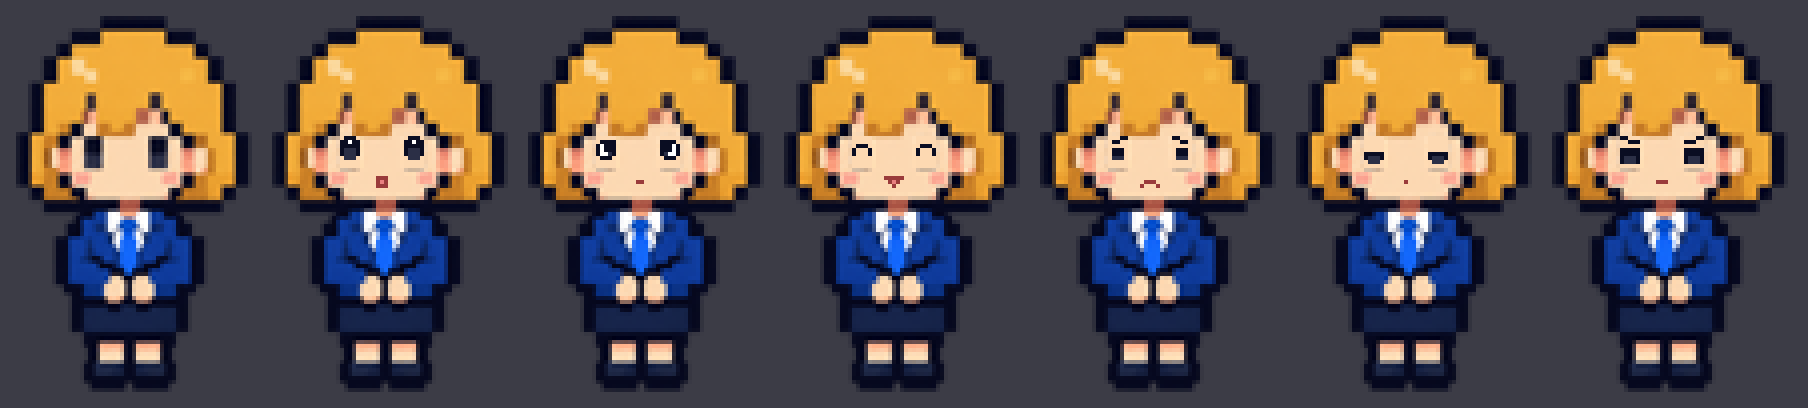
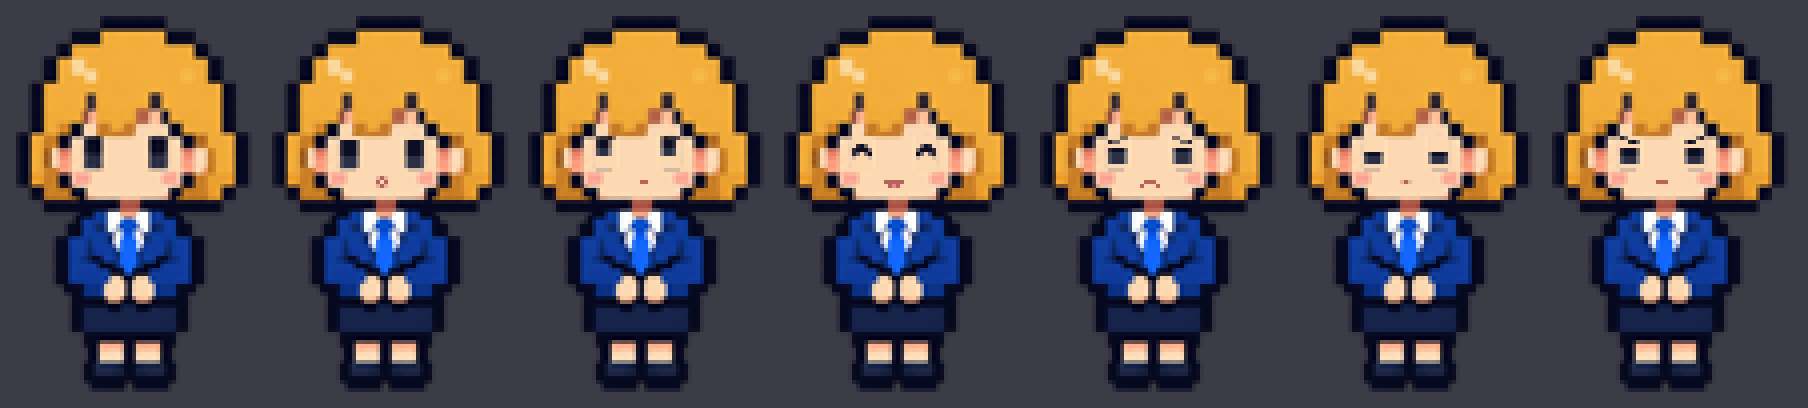
바탕화면 비서 표정 다시 그림(A-1 또렷하게): 평소 눈의 실제 색·두께로 눈을 그려 도트 그림과 맞추고 입을 진하게

diff --git a/docs/design/desktop-secretary/face-sprites.py b/docs/design/desktop-secretary/face-sprites.py
@@ -5,7 +5,7 @@
       docs/design/desktop-secretary/expression-preview.png (표정별 4배 미리보기)
 
 방향은 expression-concept.png(이디자 시안, 대표 확인). 기준 그림의 두 눈 칸(5×8)을 피부색으로 지운 뒤
-눈·눈썹을 다시 그리고, 입 칸(5×3)에 입을 그린다. 그 밖의 픽셀은 기준 그림과 같아야 한다.
+눈·눈썹을 다시 그리고, 입 칸(5×3)에 입을 그린다. (v2: 아래 COLORS 위 설명 참고) 그 밖의 픽셀은 기준 그림과 같아야 한다.
 
 실행: python3 docs/design/desktop-secretary/face-sprites.py         (만들고 검사)
       python3 docs/design/desktop-secretary/face-sprites.py --check (검사만)
@@ -19,64 +19,74 @@ ROOT = Path(__file__).resolve().parents[3]
 SPRITES = ROOT / 'app/src/renderer/deskPet/sprites'
 PREVIEW = ROOT / 'docs/design/desktop-secretary/expression-preview.png'
 
-# 기준 그림 기준 좌표 (끝 포함). 눈은 왼쪽·오른쪽 각 5×8, 입은 얼굴 가운데 5×3
+# 기준 그림 기준 좌표 (끝 포함). 눈은 왼쪽·오른쪽 각 5×9 (38줄은 밑 그림자), 입은 얼굴 가운데 5×3
 EYE_L, EYE_R, EYE_TOP = 17, 33, 30
 MOUTH_X, MOUTH_Y = 25, 40
 FACE = (17, 30, 37, 42)  # 바뀌어도 되는 영역 — 이 밖은 기준 그림과 픽셀까지 같아야 한다
 
+# v2(2026-11-01, 대표 선택 A-1 '또렷하게'): v1의 1칸 선 눈·순백 빛점이 도트 그림과 어울리지 않아,
+# 평소 눈의 실제 색(기준 그림에서 뽑음)과 2칸 이상 두께만 쓴다. 시안 비교는 face-sprites-v3.py
+_base = Image.open(SPRITES / 'body-idle.png').convert('RGBA').load()
 COLORS = {
-    '.': (0xfd, 0xd9, 0xb2, 255),  # 피부
-    'k': (0x0a, 0x0d, 0x22, 255),  # 눈·눈썹 (기준 눈의 어두운 부분)
-    'n': (0x2b, 0x2f, 0x46, 255),  # 눈 아래쪽 남색
-    'w': (0xff, 0xff, 0xff, 255),  # 흰자·빛
-    'r': (0x9a, 0x3b, 0x3b, 255),  # 입 선
-    'p': (0xe8, 0x80, 0x80, 255),  # 입 안
+    '.': _base[24, 34],                                          # 피부 (두 눈 사이)
+    'A': _base[17, 32], 'K': _base[19, 32], 'G': _base[21, 32],  # 위 어두운 칸: 바깥·가운데·안쪽 회색 테두리
+    'B': _base[17, 35], 'N': _base[19, 35], 'H': _base[21, 35],  # 아래 남색 칸
+    'S': _base[18, 38],                                          # 밑 그림자
+    'm': (0xec, 0xb4, 0xa0, 254),  # 입 가장자리 옅은 색
+    'D': (0xb8, 0x62, 0x5c, 254),  # 입 선
+    'p': (0xe8, 0x8a, 0x86, 254),  # 입 안
 }
+LID = [_base[17 + i, 30] for i in range(5)]  # 평소 위 눈꺼풀 줄 (칸마다 색이 다르다) — 'L'
 
-# 왼쪽 눈 8줄 (오른쪽 눈은 좌우를 뒤집어 그린다 — 눈썹 기울기가 대칭이 되게). '_'는 기준 그림 그대로
-CLOSED = ['.....', '.....', '.....', '.....', '.....', 'kkkkk', 'kkkkk', '.....']
+# 왼쪽 눈 9줄, 0번 칸이 바깥쪽. 오른쪽 눈은 'eyeR'이 없으면 좌우를 뒤집어 그린다 (있으면 그것도 0번이 바깥쪽)
+CLOSED = ['.....', '.....', '.....', '.....', '.....', 'AKKKG', 'AKKKG', '.....', 'SSSS.']
 FACES = {
-    'surprised': {  # 놀람: 동그랗게 뜬 눈 + 'o' 입
-        'eye': ['.kkk.', 'kkwkk', 'kkkkk', 'knnnk', 'knnnk', '.nnn.', '.....', '.....'],
+    'surprised': {  # 놀람: 위 눈꺼풀이 올라가 커진 눈 + 'o' 입
+        'eye': ['.....', 'AKKKG', 'AKKKG', 'AKKKG', 'AKKKG', 'BNNNH', 'BNNNH', 'BNNNH', 'SSSS.'],
         'blink': None,
-        'mouth': ['.rrr.', '.rpr.', '.rrr.'],
+        'mouth': ['.mDm.', '.D.D.', '.mDm.'],
     },
-    'thinking': {  # 생각 중: 눈동자가 위 바깥쪽 + 한쪽으로 다문 입
-        'eye': ['.....', '.kkkk', 'kwkkk', 'kwkkk', 'kwwnk', '.kkk.', '.....', '.....'],
+    'thinking': {  # 생각 중: 두 눈이 위·같은 쪽을 본다 + 한쪽으로 다문 입
+        'eye': ['LLLLL', 'AKKG.', 'AKKG.', 'BNNH.', 'BNNH.', '.....', '.....', '.....', 'SSSS.'],
+        'eyeR': ['LLLLL', '.AKKG', '.AKKG', '.BNNH', '.BNNH', '.....', '.....', '.....', 'SSSS.'],
         'blink': CLOSED,
-        'mouth': ['.....', '..rr.', '.....'],
+        'mouth': ['.....', '...DD', '.....'],
     },
-    'happy': {  # 기쁨: ∩ 눈 + 벌린 웃는 입
-        'eye': ['.....', '.....', '.kkk.', 'k...k', 'k...k', '.....', '.....', '.....'],
+    'happy': {  # 기쁨: 두꺼운 ∩ 눈 + 벌린 웃는 입
+        'eye': ['.....', '.....', '.AKG.', 'AKKKG', 'AG.GK', 'S...S', '.....', '.....', '.....'],
         'blink': None,
-        'mouth': ['rrrrr', '.rpr.', '..r..'],
+        'mouth': ['.....', 'DDDDD', '.DpD.'],
     },
     'worried': {  # 걱정: 안쪽이 올라간 눈썹 + 작은 눈 + 처진 입
-        'eye': ['...kk', '.kk..', '.....', '.kkk.', '.kkk.', '.nnn.', '.....', '.....'],
-        'blink': ['...kk', '.kk..', '.....', '.....', '.....', 'kkkkk', '.....', '.....'],
-        'mouth': ['.....', '.rrr.', 'r...r'],
+        'eye': ['...GG', 'AGG..', '.....', 'AKKKG', 'BNNNH', 'BNNNH', 'BNNNH', '.....', 'SSSS.'],
+        'blink': ['...GG', 'AGG..', '.....', '.....', '.....', 'AKKKG', 'AKKKG', '.....', 'SSSS.'],
+        'mouth': ['.....', '.DDD.', 'D...D'],
     },
     'sleepy': {  # 졸림: 반쯤 감은 눈 + 작게 벌린 입
-        'eye': ['.....', '.....', '.....', '.....', 'kkkkk', 'knnnk', '.nnn.', '.....'],
+        'eye': ['.....', '.....', '.....', '.....', 'AKKKG', 'BNNNH', 'BNNNH', '.....', 'SSSS.'],
         'blink': CLOSED,
-        'mouth': ['.....', '..r..', '.....'],
+        'mouth': ['.....', '.mDm.', '.....'],
     },
     'focused': {  # 집중: 안쪽이 내려간 눈썹 + 또렷한 눈 + 다문 입
-        'eye': ['kk...', '..kkk', '.....', 'kkkkk', 'kkkkk', 'knnnk', 'knnnk', '.....'],
-        'blink': ['kk...', '..kkk', '.....', '.....', '.....', 'kkkkk', 'kkkkk', '.....'],
-        'mouth': ['.....', '.rrr.', '.....'],
+        'eye': ['AG...', '..AKG', '.....', 'AKKKG', 'AKKKG', 'BNNNH', 'BNNNH', '.....', 'SSSS.'],
+        'blink': ['AG...', '..AKG', '.....', '.....', '.....', 'AKKKG', 'AKKKG', '.....', 'SSSS.'],
+        'mouth': ['.....', '.DDD.', '.....'],
     },
 }
 
 
-def paint(base, eye, mouth):
+def color(ch, i):
+    return LID[i] if ch == 'L' else COLORS[ch]
+
+
+def paint(base, eye, mouth, eye_r=None):
     im = base.copy()
     p = im.load()
-    for y, row in enumerate(eye):
-        for i, ch in enumerate(row):
-            if ch != '_':
-                p[EYE_L + i, EYE_TOP + y] = COLORS[ch]
-                p[EYE_R + 4 - i, EYE_TOP + y] = COLORS[ch]
+    eye_r = eye_r or eye
+    for y in range(len(eye)):
+        for i in range(5):
+            p[EYE_L + i, EYE_TOP + y] = color(eye[y][i], i)
+            p[EYE_R + 4 - i, EYE_TOP + y] = color(eye_r[y][i], i)
     for y, row in enumerate(mouth):
         for x, ch in enumerate(row):
             if ch != '.':
@@ -86,9 +96,9 @@ def paint(base, eye, mouth):
 
 def outputs():
     for name, f in FACES.items():
-        yield f'face-{name}', f['eye'], f['mouth']
+        yield f'face-{name}', f['eye'], f['mouth'], f.get('eyeR')
         if f['blink']:
-            yield f'face-{name}-blink', f['blink'], f['mouth']
+            yield f'face-{name}-blink', f['blink'], f['mouth'], None
 
 
 def check(base):
@@ -96,7 +106,7 @@ def check(base):
     bp = base.load()
     x0, y0, x1, y1 = FACE
     bad = []
-    for name, _, _ in outputs():
+    for name, *_ in outputs():
         im = Image.open(SPRITES / f'{name}.png').convert('RGBA')
         if im.size != base.size:
             bad.append(f'{name}: 크기 {im.size}')
@@ -113,12 +123,12 @@ def main():
     base = Image.open(SPRITES / 'body-idle.png').convert('RGBA')
     if '--check' not in sys.argv:
         made = []
-        for name, eye, mouth in outputs():
-            im = paint(base, eye, mouth)
+        for name, eye, mouth, eye_r in outputs():
+            im = paint(base, eye, mouth, eye_r)
             im.save(SPRITES / f'{name}.png')
             made.append(im)
         # 미리보기: 기준 + 표정 6종, 4배 확대, 회색 바탕
-        faces = [base] + [paint(base, f['eye'], f['mouth']) for f in FACES.values()]
+        faces = [base] + [paint(base, f['eye'], f['mouth'], f.get('eyeR')) for f in FACES.values()]
         s, gap = 4, 16
         sheet = Image.new('RGBA', (len(faces) * (base.width * s + gap) + gap, base.height * s + gap * 2), (60, 60, 70, 255))
         for i, im in enumerate(faces):

diff --git a/docs/design/desktop-secretary/face-sprites-v3.py b/docs/design/desktop-secretary/face-sprites-v3.py
@@ -1,0 +1,135 @@
+"""바탕화면 비서 표정 v3 시안: v2 A안을 기준으로 세 갈래 (앱 그림은 바꾸지 않는다)
+
+A    v2 A안 그대로
+A-1  또렷하게: 입 색을 진하게·크게, ∩ 눈 두껍게, 생각은 두 눈이 같은 쪽을 본다
+A-2  반짝임: 눈에 옅은 빛 한 점(순백 아님), 기쁨은 눈 밑 볼 홍조
+A-3  크게: 눈썹·입을 과장하고 생각·졸음은 두 눈을 다르게
+
+결과  docs/design/desktop-secretary/review/expressions-v3-sheet.png (4배 + 1배, 얼굴 밖 동일성 검사)
+실행  python3 docs/design/desktop-secretary/face-sprites-v3.py
+"""
+
+from pathlib import Path
+from PIL import Image, ImageDraw, ImageFont
+
+ROOT = Path(__file__).resolve().parents[3]
+SPRITES = ROOT / 'app/src/renderer/deskPet/sprites'
+OUT = ROOT / 'docs/design/desktop-secretary/review/expressions-v3-sheet.png'
+
+EYE_L, EYE_R, TOP = 17, 33, 30  # 눈 칸 5×9 (30~38줄, 38줄은 밑 그림자). 0번 칸이 바깥쪽
+MOUTH_X, MOUTH_Y = 25, 40       # 입 칸 5×3
+FACE = (17, 30, 37, 42)
+
+base = Image.open(SPRITES / 'body-idle.png').convert('RGBA')
+bp = base.load()
+C = {
+    '.': bp[24, 34],
+    'A': bp[17, 32], 'K': bp[19, 32], 'G': bp[21, 32],
+    'B': bp[17, 35], 'N': bp[19, 35], 'H': bp[21, 35],
+    'S': bp[18, 38],
+    'W': (0x8e, 0x93, 0xb0, 254),  # 눈 빛 (옅은 남회색)
+    'P': bp[16, 40],               # 볼 홍조 (기준 볼 색)
+    'M': (0xd9, 0x8c, 0x82, 254),  # 옅은 입
+    'm': (0xec, 0xb4, 0xa0, 254),
+    'D': (0xb8, 0x62, 0x5c, 254),  # 진한 입
+    'p': (0xe8, 0x8a, 0x86, 254),  # 입 안
+}
+LID = [bp[17 + i, 30] for i in range(5)]
+
+# (이름, 왼쪽 눈, 오른쪽 눈(None이면 왼쪽을 좌우로 뒤집음 — 오른쪽 눈도 0번이 바깥쪽), 입)
+SETS = {
+    'A': [
+        ('놀람', ['.....', 'AKKKG', 'AKKKG', 'AKKKG', 'AKKKG', 'BNNNH', 'BNNNH', 'BNNNH', 'SSSS.'], None, ['..m..', '.mMm.', '..m..']),
+        ('생각', ['LLLLL', 'AKKG.', 'AKKG.', 'BNNH.', 'BNNH.', '.....', '.....', '.....', 'SSSS.'], None, ['.....', '...Mm', '.....']),
+        ('기쁨', ['.....', '.....', '.AKG.', 'AKGAK', 'AG.GK', 'S...S', '.....', '.....', '.....'], None, ['.....', 'mMMMm', '.mMm.']),
+        ('걱정', ['...GG', 'AGG..', '.....', 'AKKKG', 'BNNNH', 'BNNNH', 'BNNNH', '.....', 'SSSS.'], None, ['.....', '.mMm.', 'm...m']),
+        ('집중', ['AG...', '..AKG', '.....', 'AKKKG', 'AKKKG', 'BNNNH', 'BNNNH', '.....', 'SSSS.'], None, ['.....', '.mMm.', '.....']),
+        ('졸음', ['.....', '.....', '.....', '.....', 'AKKKG', 'BNNNH', 'BNNNH', '.....', 'SSSS.'], None, ['.....', '..M..', '.....']),
+    ],
+    'A-1': [
+        ('놀람', ['.....', 'AKKKG', 'AKKKG', 'AKKKG', 'AKKKG', 'BNNNH', 'BNNNH', 'BNNNH', 'SSSS.'], None, ['.mDm.', '.D.D.', '.mDm.']),
+        ('생각', ['LLLLL', 'AKKG.', 'AKKG.', 'BNNH.', 'BNNH.', '.....', '.....', '.....', 'SSSS.'],
+                 ['LLLLL', '.AKKG', '.AKKG', '.BNNH', '.BNNH', '.....', '.....', '.....', 'SSSS.'], ['.....', '...DD', '.....']),
+        ('기쁨', ['.....', '.....', '.AKG.', 'AKKKG', 'AG.GK', 'S...S', '.....', '.....', '.....'], None, ['.....', 'DDDDD', '.DpD.']),
+        ('걱정', ['...GG', 'AGG..', '.....', 'AKKKG', 'BNNNH', 'BNNNH', 'BNNNH', '.....', 'SSSS.'], None, ['.....', '.DDD.', 'D...D']),
+        ('집중', ['AG...', '..AKG', '.....', 'AKKKG', 'AKKKG', 'BNNNH', 'BNNNH', '.....', 'SSSS.'], None, ['.....', '.DDD.', '.....']),
+        ('졸음', ['.....', '.....', '.....', '.....', 'AKKKG', 'BNNNH', 'BNNNH', '.....', 'SSSS.'], None, ['.....', '.mDm.', '.....']),
+    ],
+    'A-2': [
+        ('놀람', ['.....', 'AKWKG', 'AKKKG', 'AKKKG', 'AKKKG', 'BNNNH', 'BNNNH', 'BNNNH', 'SSSS.'], None, ['..m..', '.mMm.', '..m..']),
+        ('생각', ['LLLLL', 'AWKG.', 'AKKG.', 'BNNH.', 'BNNH.', '.....', '.....', '.....', 'SSSS.'], None, ['.....', '...Mm', '.....']),
+        ('기쁨', ['.....', '.....', '.AKG.', 'AKGAK', 'AG.GK', '.....', 'PP...', '.....', '.....'], None, ['.....', 'mMMMm', '.mMm.']),
+        ('걱정', ['...GG', 'AGG..', '.....', 'AKWKG', 'BNNNH', 'BNNNH', 'BNNNH', '.....', 'SSSS.'], None, ['.....', '.mMm.', 'm...m']),
+        ('집중', ['AG...', '..AKG', '.....', 'AKKWG', 'AKKKG', 'BNNNH', 'BNNNH', '.....', 'SSSS.'], None, ['.....', '.mMm.', '.....']),
+        ('졸음', ['.....', '.....', '.....', '.....', 'AKKKG', 'BNNNH', 'BNNNH', '.....', 'SSSS.'], None, ['.....', '..M..', '.....']),
+    ],
+    'A-3': [
+        ('놀람', ['.GGG.', '.....', 'AKKKG', 'AKWKG', 'AKKKG', 'BNNNH', 'BNNNH', 'BNNNH', 'SSSS.'], None, ['..D..', '.DpD.', '..D..']),
+        ('생각', ['GG...', '..GG.', 'AKKG.', 'AKKG.', 'BNNH.', 'BNNH.', '.....', '.....', 'SSSS.'],
+                 ['.....', '.....', '.....', '.....', 'LLLLL', '.AKKG', '.BNNH', '.....', 'SSSS.'], ['.....', '...DD', '.....']),
+        ('기쁨', ['.....', '.....', '.AKG.', 'AKKKG', 'AG.GK', '.....', 'PP...', '.....', '.....'], None, ['mDDDm', '.DpD.', '..D..']),
+        ('걱정', ['...GG', '.GG..', 'G....', 'AKWKG', 'BNNNH', 'BNNNH', '.BNH.', '.....', 'SSSS.'], None, ['.....', '.D.D.', 'D.D.D']),
+        ('집중', ['GG...', '..GGG', '.....', 'LLLLL', 'AKKKG', 'BNNNH', 'BNNNH', '.....', 'SSSS.'], None, ['.....', 'DDDD.', '.....']),
+        ('졸음', ['.....', '.....', '.....', '.....', '.....', 'AKKKG', 'BNNNH', '.....', 'SSSS.'],
+                 ['.....', '.....', '.....', '.....', 'AKKKG', 'BNNNH', 'BNNNH', '.....', 'SSSS.'], ['.....', '.mDm.', '..m..']),
+    ],
+}
+DESC = {'A': '이전 A안', 'A-1': '또렷하게 (진한 입·굵은 선)', 'A-2': '반짝임 (눈 빛·볼 홍조)', 'A-3': '크게 (눈썹·입 과장, 짝눈)'}
+
+
+def color(ch, i):
+    return LID[i] if ch == 'L' else C[ch]
+
+
+def paint(left, right, mouth):
+    im = base.copy()
+    p = im.load()
+    right = right or left
+    for y in range(9):
+        for i in range(5):
+            p[EYE_L + i, TOP + y] = color(left[y][i], i)
+            p[EYE_R + 4 - i, TOP + y] = color(right[y][i], i)
+    for y, row in enumerate(mouth):
+        for x, ch in enumerate(row):
+            if ch != '.':
+                p[MOUTH_X + x, MOUTH_Y + y] = C[ch]
+    return im
+
+
+def outside_same(im):
+    p = im.load()
+    x0, y0, x1, y1 = FACE
+    return all(p[x, y] == bp[x, y] for y in range(base.height) for x in range(base.width) if not (x0 <= x <= x1 and y0 <= y <= y1))
+
+
+def main():
+    font = lambda n: ImageFont.truetype('/System/Library/Fonts/AppleSDGothicNeo.ttc', n)
+    f, fb = font(20), font(24)
+    S = 5
+    cw, ch = 29 * S, 22 * S  # 얼굴 부분만 5배 (13~41, 24~45)
+    pad, head, lab, small = 18, 200, 34, base.height + 10
+    cols = 7
+    sheet = Image.new('RGB', (head + cols * (cw + pad) + pad, pad + len(SETS) * (ch + lab + small + pad)), (236, 238, 242))
+    dr = ImageDraw.Draw(sheet)
+    bad = []
+    for r, (key, faces) in enumerate(SETS.items()):
+        y = pad + r * (ch + lab + small + pad)
+        dr.text((pad, y + 30), key, font=fb, fill=(30, 30, 40))
+        dr.multiline_text((pad, y + 70), DESC[key].replace(' (', '\n('), font=font(16), fill=(90, 90, 100))
+        items = [('평소', base)] + [(n, paint(l, rr, m)) for n, l, rr, m in faces]
+        for c, (name, im) in enumerate(items):
+            if not outside_same(im):
+                bad.append(f'{key} {name}')
+            x = head + c * (cw + pad)
+            dr.rounded_rectangle([x - 4, y - 4, x + cw + 4, y + ch + lab + small], 10, fill=(255, 255, 255))
+            big = im.crop((13, 24, 42, 46)).resize((cw, ch), Image.NEAREST)
+            sheet.paste(big, (x, y), big)
+            dr.text((x + cw / 2, y + ch + 18), name, font=f, fill=(30, 30, 40), anchor='mm')
+            sheet.paste(im, (x + cw // 2 - base.width // 2, y + ch + lab), im)  # 1배 실제 크기
+    sheet.save(OUT)
+    print('저장', OUT.relative_to(ROOT))
+    print('얼굴 밖 검사:', '통과' if not bad else f'실패 {bad}')
+
+
+if __name__ == '__main__':
+    main()

diff --git a/CHANGELOG.ja.md b/CHANGELOG.ja.md
@@ -18,6 +18,7 @@
 - 別のPCのスタッフに送る添付ファイルを整理しました。1ファイル20MB、1件あたり5個まで添付でき、使われずに残った添付は2日後に自動で削除します。
 - 別のPCのスタッフに任せた仕事も「この仕事を止める」で取り消せます。
 - デスクトップ秘書をドラッグして動かしても、開いている小さなウィンドウが閉じずに一緒についてきます。
+- デスクトップ秘書の表情(驚き・考え中・喜び・心配・集中・眠気)を描き直しました。目がいつもの絵と同じドット調になじみ、口もはっきりしました。
 
 ### バグ修正
 - Tailscaleのメニューバーアプリが点いたり消えたりしていた問題を修正しました。AI OfficeがTailscaleの状態を確認しても、Tailscaleの画面は表示されなくなりました。

diff --git a/CHANGELOG.md b/CHANGELOG.md
@@ -18,6 +18,7 @@
 - 다른 PC 직원에게 보내는 첨부를 정리했어요. 파일 하나 20MB, 일 하나당 5개까지 붙이고, 쓰이지 않고 남은 첨부는 2일 뒤 자동으로 지워요.
 - 다른 PC 직원에게 맡긴 일도 '이 일 멈추기'로 취소할 수 있어요.
 - 바탕화면 비서를 끌어 옮겨도 열어 둔 작은 창이 닫히지 않고 같이 따라와요.
+- 바탕화면 비서의 표정(놀람·생각·기쁨·걱정·집중·졸음)을 다시 그렸어요. 눈이 평소 그림과 같은 도트 느낌으로 어울리고, 입도 더 또렷해요.
 
 ### 버그 수정
 - Tailscale 메뉴 막대 앱이 켜졌다 꺼졌다 하던 문제를 고쳤어요. 이제 AI Office가 Tailscale 상태를 확인해도 Tailscale 화면이 뜨지 않아요.

diff --git a/CHANGELOG.en.md b/CHANGELOG.en.md
@@ -18,6 +18,7 @@ Writing rules
 - Attachments sent to staff on another PC are tidied up: up to 20MB per file and 5 per task, and unused attachments are deleted automatically after 2 days.
 - Work assigned to staff on another PC can also be canceled with 'Stop this task'.
 - Dragging the desktop secretary no longer closes its open small window — the window now follows along.
+- Redrew the desktop secretary's expressions (surprised, thinking, happy, worried, focused, sleepy). The eyes now match the pixel style of the default look, and the mouths are clearer.
 
 ### Bug fixes
 - Fixed the Tailscale menu bar app flickering on and off. AI Office now checks Tailscale status without making the Tailscale window appear.

diff --git a/CHANGELOG.zh.md b/CHANGELOG.zh.md
@@ -18,6 +18,7 @@
 - 整理了发给另一台电脑员工的附件：单个文件最大20MB，每项工作最多5个，未被使用的附件会在2天后自动删除。
 - 交给另一台电脑员工的工作也可以用"停止这项工作"取消。
 - 拖动桌面秘书时，已打开的小窗口不再关闭，而是一起跟着移动。
+- 重新绘制了桌面秘书的表情(惊讶、思考、开心、担心、专注、困倦)。眼睛与平时的像素画风更协调，嘴巴也更清楚。
 
 ### 问题修复
 - 修复了 Tailscale 菜单栏应用反复开启又关闭的问题。现在 AI Office 检查 Tailscale 状态时不会弹出 Tailscale 窗口。
